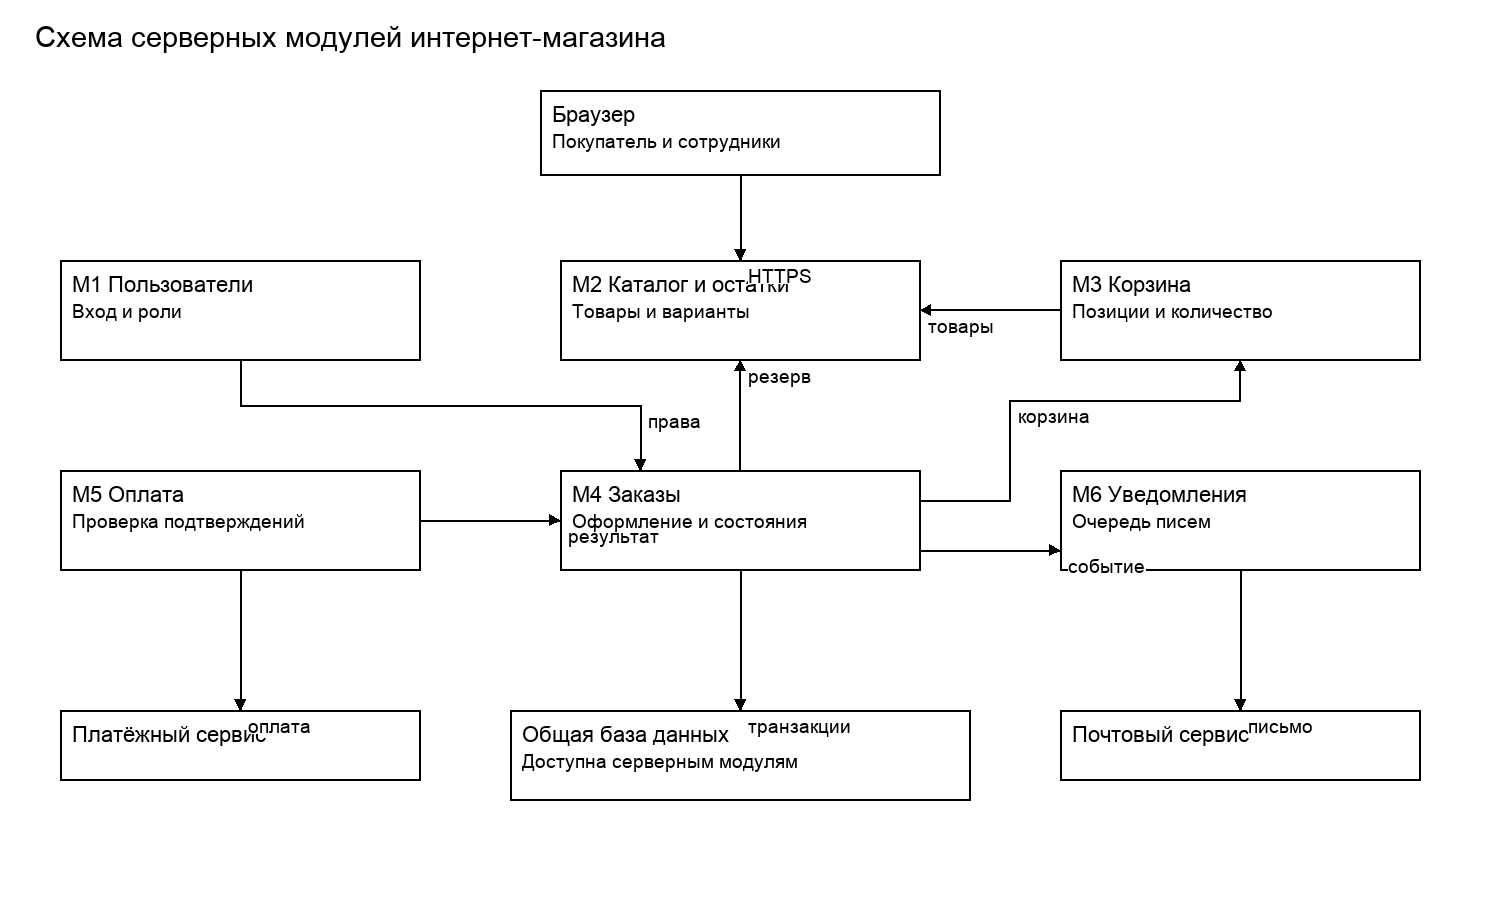
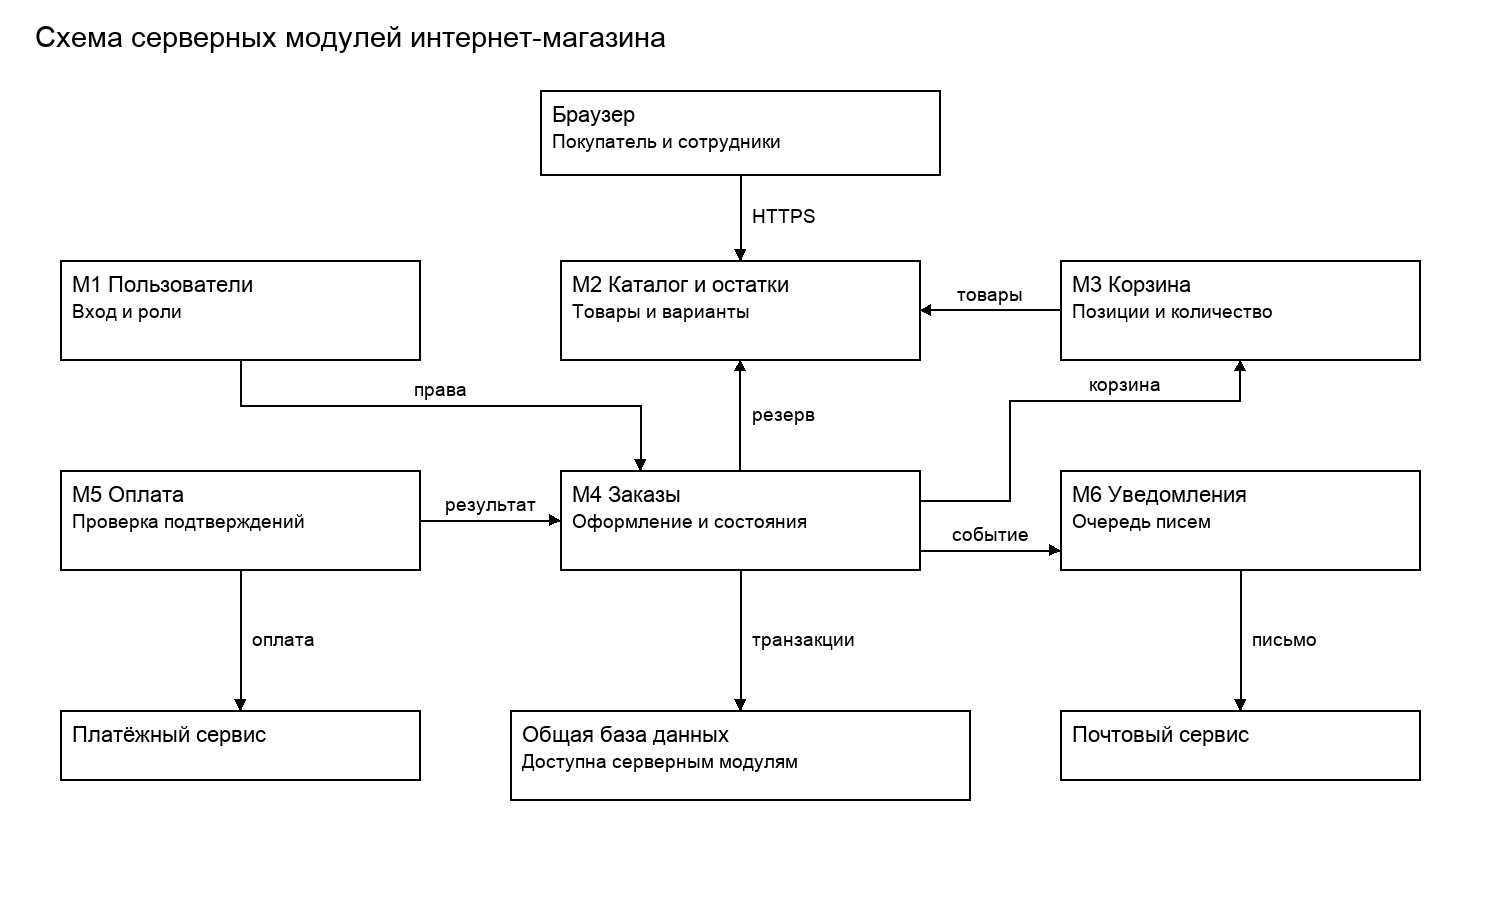
Уточнены подписи схем журнал остатков и проверка ролей

diff --git a/docs/5-uml-and-tests.md b/docs/5-uml-and-tests.md
@@ -141,15 +141,15 @@
 
 Ожидаемый результат: Без номера отказ; с номером состояние «Отправлен», остаток и резерв уменьшены, письмо поставлено в очередь.
 
-### ТК-12 Блокировка сотрудника
+### ТК-12 Роль и блокировка сотрудника
 
 Требования: ФТ-12.
 
 Предусловия: Сотрудник вошёл в систему.
 
-Действия: Администратор блокирует его; сотрудник повторяет служебный запрос и пытается войти.
+Действия: Администратор назначает роль склада; сотрудник проверяет доступ к отправке. Затем администратор блокирует его; сотрудник повторяет запрос и пытается войти.
 
-Ожидаемый результат: Ранее открытая сессия и новый вход не дают доступа.
+Ожидаемый результат: После назначения роли разрешены складские операции. После блокировки ранее открытая сессия и новый вход не дают доступа.
 
 ### ТК-13 Повтор подтверждения оплаты
 

diff --git a/docs/4-architecture.md b/docs/4-architecture.md
@@ -19,6 +19,10 @@
 
 Общая база содержит пользователей, каталог, корзины, заказы, попытки оплаты и письма. Резервные копии базы хранятся отдельно от основной базы. Фотографии размещаются в файловом хранилище; в карточке сохраняется путь к файлу.
 
+Журнал изменений остатков хранит variantId, userId, changedAt, oldStock и newStock. Это технический журнал М2, а не отдельный пользователь системы.
+
+На схеме показаны основные связи модулей. Веб-интерфейс обращается ко всему серверному приложению; линия к каталогу показывает вход в систему, а не ограничение доступа только к М2.
+
 ## Схема
 
 ![Схема модулей](4-architecture.png)
